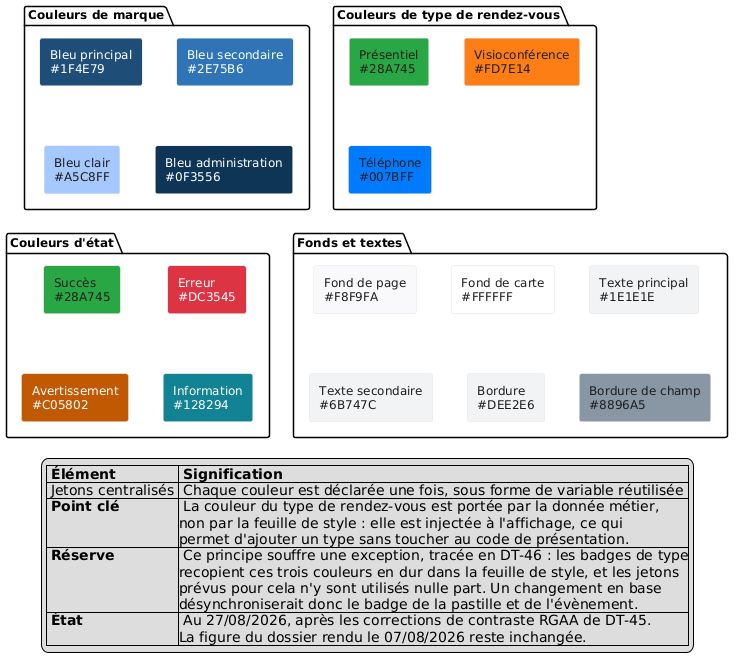
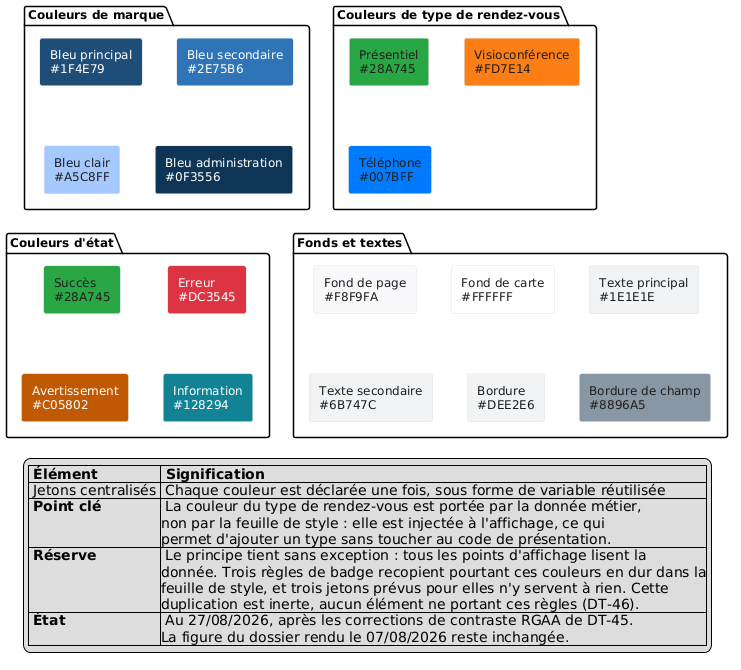
chore(infra): aligne main sur le contenu de preprod (#197)
Alignement de contenu, pas une fusion : la promotion par squash efface
l'ancetre commun (DT-43), l'arbre est recopie a l'identique depuis preprod.

Requalification de DT-46 : le registre et la figure de charte portaient
tous deux une affirmation fausse, celle d'une desynchronisation du badge
lors d'un changement de couleur en base.

Changed region(s): [[0.031, 0.6866, 0.9622, 0.9851]]

diff --git a/docs/dette-technique.md b/docs/dette-technique.md
@@ -1327,11 +1327,13 @@ S'y ajoute un facteur aggravant : **CLAUDE.md désigne `docs/design-tokens.md` c
 
 ---
 
-## DT-46 — Les couleurs de type sont codées en dur dans la charte, ses jetons ne servent à rien (🟢 BAS) — ⏳ OUVERTE (27/08/2026)
+## DT-46 — Duplication inerte des couleurs de type dans la charte, dont les jetons ne servent à rien (🟢 BAS) — ⏳ OUVERTE (27/08/2026)
 
 > **⏳ OUVERTE le 27/08/2026** — découverte en instruisant l'issue 2 de DT-45, qui envisageait de changer la couleur de type téléphone en base.
 >
-> **Origine** : la couleur d'un type de rendez-vous est une **donnée**, portée par `type_rdv.couleur_hex`. Elle est correctement lue par les templates pour les pastilles, les bords de carte et les évènements du calendrier. Mais les **badges** de type, eux, portent la même couleur **recopiée en dur** dans `public/css/creaslot.css`.
+> **Origine** : la couleur d'un type de rendez-vous est une **donnée**, portée par `type_rdv.couleur_hex`. Elle est lue depuis la base partout où elle s'affiche. Trois règles de la feuille de style recopient pourtant ces mêmes couleurs **en dur**, sans qu'aucun élément de l'interface ne les porte.
+>
+> **Requalifiée le 28/08/2026** : l'entrée affirmait initialement qu'un changement en base désynchroniserait le badge de la pastille. C'était **faux**, et la vérification n'avait pas été faite. Les trois règles sont mortes, la duplication est **inerte**, et le défaut est de maintenabilité et non de comportement.
 
 **Détecté** : 27/08/2026, en mesurant le périmètre d'un changement de couleur en base.
 
@@ -1345,17 +1347,21 @@ S'y ajoute un facteur aggravant : **CLAUDE.md désigne `docs/design-tokens.md` c
 
 Symétriquement, les trois jetons prévus pour cela, `--cs-green-presentiel`, `--cs-orange-visio` et `--cs-blue-telephone`, sont **déclarés et utilisés zéro fois** dans la feuille de style. Ils ne servent aujourd'hui qu'au test de contraste, qui les lit pour recalculer les couples.
 
-**Cause racine** : la couleur de type a deux sources de vérité qui ne se parlent pas. La base pour ce qui est rendu dynamiquement, la feuille de style pour les badges. Rien ne les synchronise, et rien ne signale la divergence.
+**Cause racine** : la charte a été écrite avant que la couleur de type ne devienne une donnée. Les règles de badge et leurs jetons datent de ce moment, et ni les unes ni les autres n'ont été retirées quand le rendu est passé à la lecture en base. Il reste donc une seconde source de vérité, que rien ne synchronise et que rien ne signale, mais que rien n'affiche non plus.
 
-**Conséquence, mesurée** : changer `type_rdv.couleur_hex` **désynchroniserait le badge de la pastille et de l'évènement** pour le même type, sur le même écran. C'est ce constat qui a pesé dans l'arbitrage de DT-45 en faveur d'une correction CSS plutôt que d'un changement en base.
+**Portée réelle, vérifiée le 28/08/2026** : la duplication est **inerte**. Les trois classes `.cs-badge-presentiel`, `.cs-badge-visio` et `.cs-badge-telephone` **ne sont posées sur aucun élément** de l'interface. La recherche de `cs-badge` dans `templates/`, `assets/` et `src/` ne remonte que `cs-badge-libre` et `cs-badge-en-rdv`, qui portent la disponibilité d'un collègue et non un type de rendez-vous. Aucune construction dynamique de nom de classe ne peut les atteindre, et elles n'existent dans aucune autre feuille de style. Ce sont des **règles mortes**.
 
-**Aucun impact de contraste** : les trois badges sont conformes, à 5,58, 4,84 et 7,38 pour un seuil de 4,5. Le défaut est de maintenabilité, pas d'accessibilité.
+Changer `type_rdv.couleur_hex` ne produit donc **aucune désynchronisation visible** : les 27 références au champ, dans les templates, le contrôleur Stimulus des statistiques, les deux sérialiseurs de calendrier et le formulaire de créneau, lisent toutes la donnée. Le badge visible sur une carte de créneau est un badge de **statut** (`text-bg-danger`, `text-bg-secondary`, `text-bg-info`, `text-bg-success`, cf. `templates/components/carte_creneau.html.twig` lignes 12 à 28), il n'a jamais porté la couleur d'un type.
+
+**Ce que cela change pour l'arbitrage de DT-45** : la crainte d'une désynchronisation avait pesé contre l'issue 2, celle du changement de couleur en base. Cette crainte n'était pas fondée. L'arbitrage retenu reste le bon pour ses autres raisons, un fichier contre douze écrans et aucune donnée de production touchée, mais il ne doit plus être justifié par ce motif.
+
+**Aucun impact de contraste** : les trois règles, si elles étaient un jour appliquées, donneraient 5,58, 4,84 et 7,38 pour un seuil de 4,5. Elles sont donc conformes autant qu'inutilisées.
 
 **Fichiers concernés** : `public/css/creaslot.css` (déclaration des trois jetons, trois règles de badge).
 
 **Piste, non instruite** : faire porter aux badges les jetons existants, en dérivant le voile de fond par `color-mix()` ou une variable de teinte assombrie, de sorte qu'une seule valeur gouverne les trois usages. La couleur de texte du badge (`#1A6E2E` et ses pareilles) devrait alors être dérivée ou conservée en jeton dédié, sa valeur ayant été choisie pour le contraste et non par simple assombrissement.
 
-**Condition de levée** : un changement de `type_rdv.couleur_hex` se répercute sur le badge sans intervention dans la feuille de style, ou bien la duplication est explicitement assumée et documentée comme telle.
+**Condition de levée** : les trois règles mortes et les trois jetons inutilisés sont retirés de la feuille de style, ou bien ils sont conservés à dessein et un commentaire dit lequel, pour qu'une relecture ultérieure ne les prenne pas pour une source de vérité active.
 
 **Hors périmètre** : la refonte du système de couleurs de type, et la création du `docs/design-tokens.md` que CLAUDE.md annonce sans qu'il existe (cf. DT-45).
 
